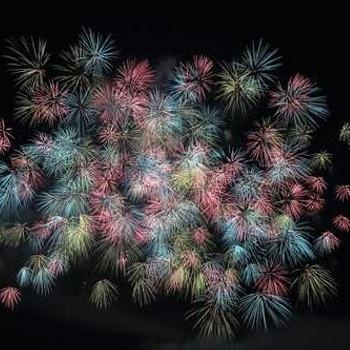
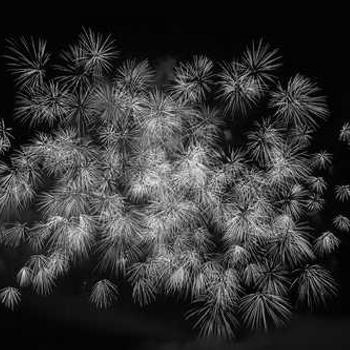
output es imagen en escala de gris

diff --git a/ejemplo.cpp b/ejemplo.cpp
@@ -13,12 +13,15 @@ using namespace std;
 int main() {
 
 	Mat image = imread("imagen_a_color.jpg", IMREAD_COLOR);
-	Mat3b output(image.rows, image.cols);
+	Mat output(image.rows, image.cols, CV_8UC1);
+	uchar greyW;
 
 	for(int r = 0; r < image.rows; r ++) {
 		for(int c = 0; c < image.cols; c++) {
 			Point3_<uchar>* p = image.ptr<Point3_<uchar> >(r, c);
-			output(r,c) = Vec3b(p->x, p->y, p->z);
+			// azul (B) -> x, verde(G) -> y, rojo(R) -> z
+			greyW = static_cast<uchar>((p->x) * 0.114 + (p->y) * 0.587 + (p->z) * 0.299);
+			output.at<uchar>(r,c) = greyW;
 		}
 	}
 
